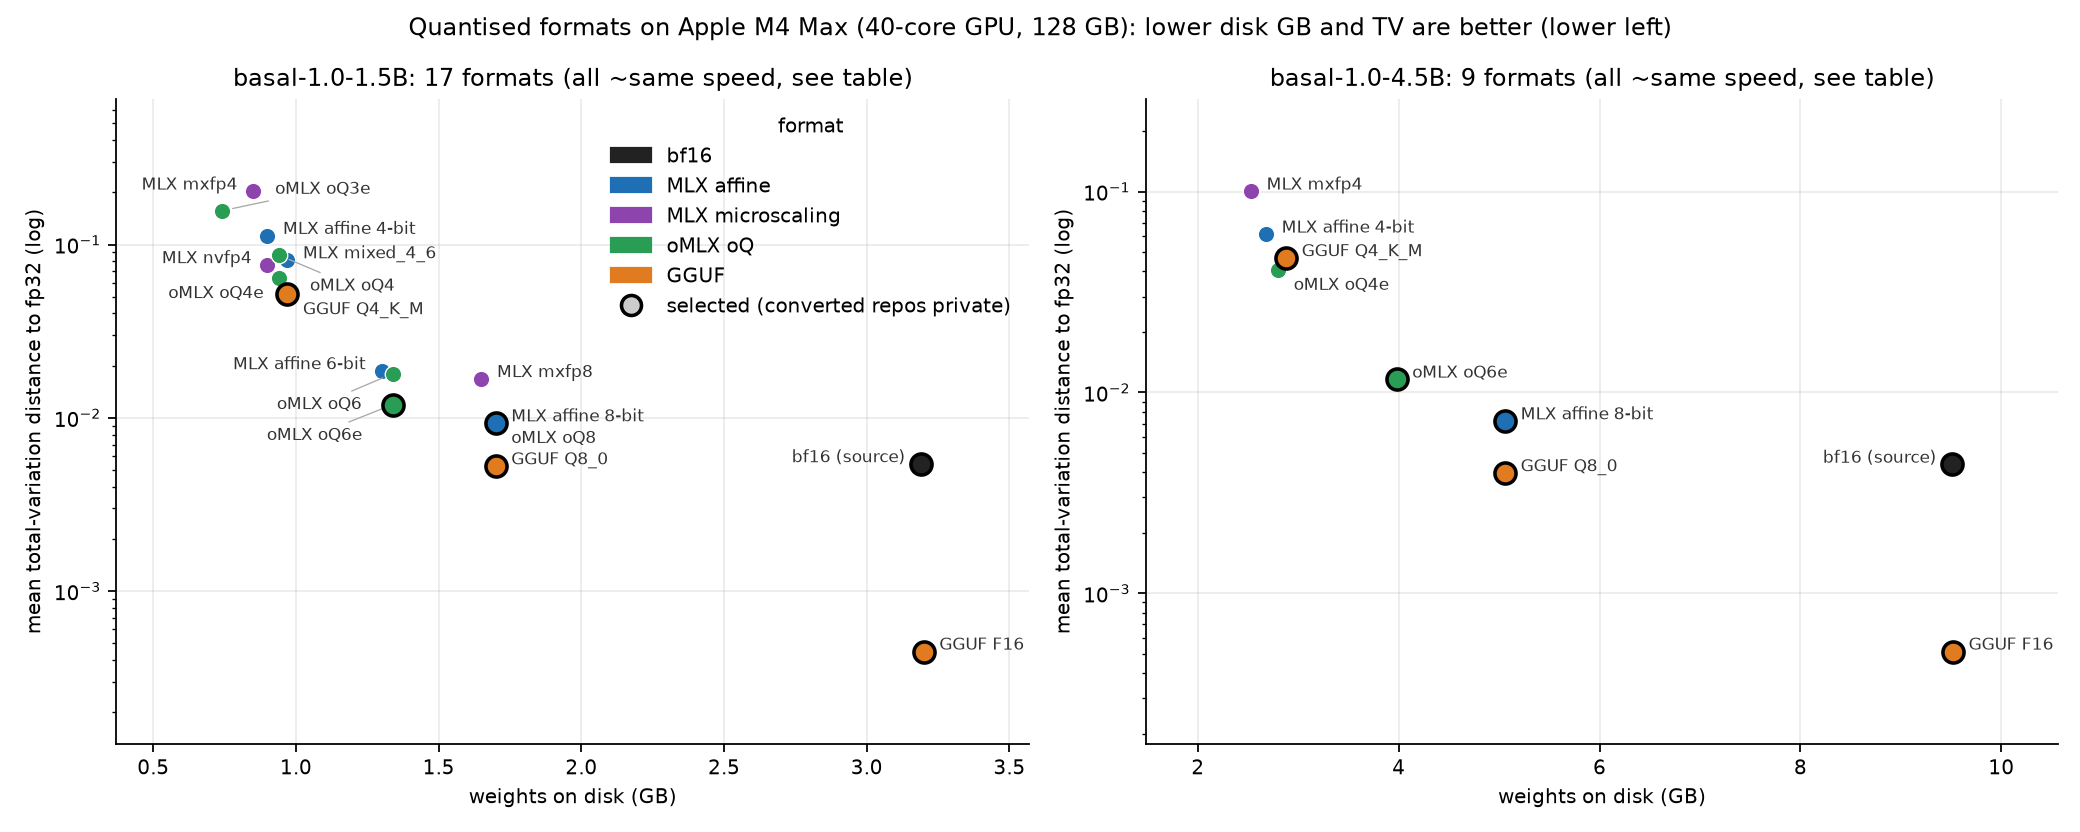
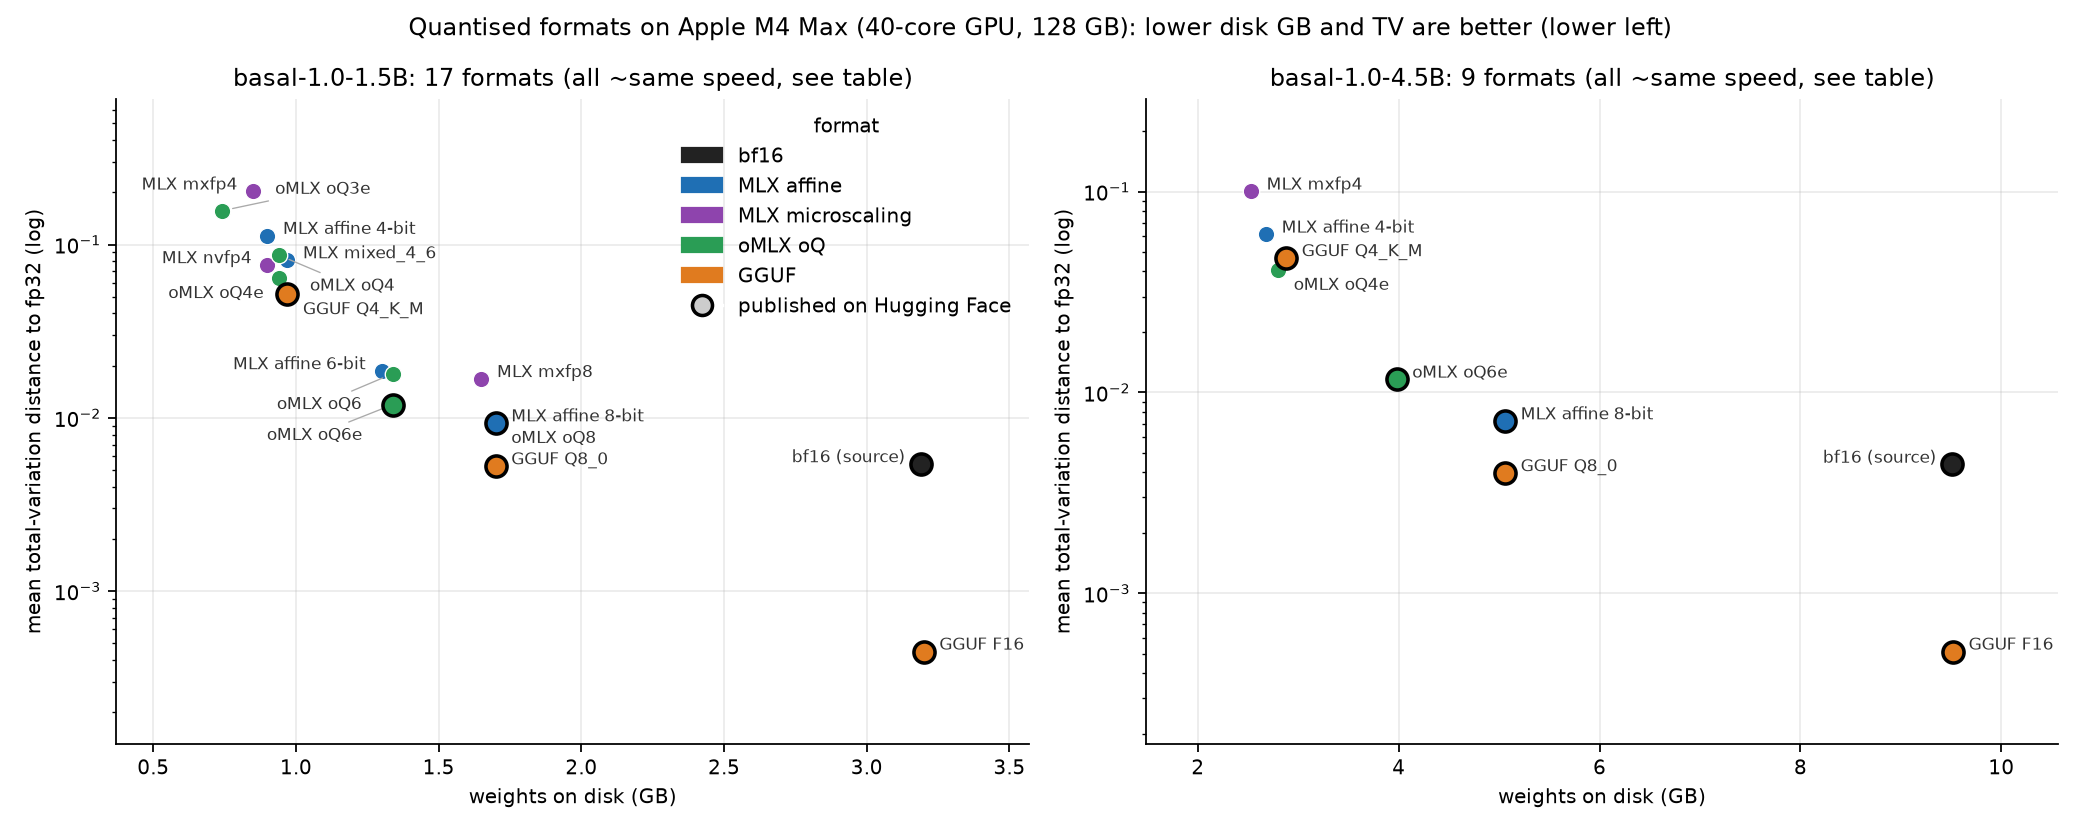
docs: mark released HF conversions public

Changed region(s): [[0.2812, 0.1562, 0.5, 0.375], [0.375, 0.125, 0.4062, 0.1562]]

diff --git a/docs/figures/make_figures.py b/docs/figures/make_figures.py
@@ -233,15 +233,15 @@ def gold_prob_heatmap():
     fig.savefig(HERE / "apple_gold_prob_heatmap.png")
 
 
-# Selected checkpoints (original bf16 is public; converted repos are private until release); keys of D["formats"]
-SELECTED = {"basal-mlx", "basal-gguf:F16", "basal-gguf:Q8_0", "basal-gguf:Q4_K_M", "mlx-q8", "mlx-oQ6e"}
+# Checkpoints published on Hugging Face (README, "Ready-made public Apple Silicon checkpoints"); keys of D["formats"]
+PUBLISHED = {"basal-mlx", "basal-gguf:F16", "basal-gguf:Q8_0", "basal-gguf:Q4_K_M", "mlx-q8", "mlx-oQ6e"}
 
 
 def memory_vs_fidelity():
-    """Selected checkpoints of both models: memory vs faithfulness, latency in the labels."""
+    """Published checkpoints of both models: memory vs faithfulness, latency in the labels."""
     fig, axes = plt.subplots(1, 2, figsize=(13, 4.8))
     for ax, model in zip(axes, ("1.5B", "4.5B")):
-        rows = [r for r in D["formats"][model] if r["key"] in SELECTED]
+        rows = [r for r in D["formats"][model] if r["key"] in PUBLISHED]
         for r in rows:
             ax.scatter(r["gb"], max(r["tv_mean"], TV_FLOOR), s=70, color=FORMAT_COLORS[r["family"]], zorder=3,
                        edgecolor="white", linewidth=0.6)
@@ -253,12 +253,12 @@ def memory_vs_fidelity():
         ax.grid(alpha=0.25)
         if model == "1.5B":
             format_legend(ax, families={r["family"] for r in rows}, loc="upper right", fontsize=8)
-    fig.suptitle("Apple Silicon checkpoints (conversions private until release): lower GB and TV are better; "
+    fig.suptitle("Published Apple Silicon checkpoints: lower GB and TV are better (lower left); "
                  "labels: ms per decision, lower is better", fontsize=11)
     fig.tight_layout()
     fig.canvas.draw()
     for ax, model in zip(axes, ("1.5B", "4.5B")):
-        rows = [r for r in D["formats"][model] if r["key"] in SELECTED]
+        rows = [r for r in D["formats"][model] if r["key"] in PUBLISHED]
         place_labels(ax, [(r["gb"], max(r["tv_mean"], TV_FLOOR),
                            f"{r['label']} · {r['ms']:.0f} ms")
                           for r in sorted(rows, key=lambda r: r["gb"])])
@@ -269,11 +269,11 @@ FORMAT_COLORS = {"bf16": "#222222", "MLX affine": "#1f6fb4", "MLX microscaling":
                  "GGUF": "#e07b1f"}
 
 
-def format_legend(ax, selected=False, families=None, **kw):
+def format_legend(ax, published=False, families=None, **kw):
     handles = [Patch(color=c, label=f) for f, c in FORMAT_COLORS.items() if families is None or f in families]
-    if selected:
+    if published:
         handles.append(plt.Line2D([], [], marker="o", color="w", markerfacecolor="#ccc", markeredgecolor="black",
-                                  markeredgewidth=1.6, markersize=9, label="selected (converted repos private)"))
+                                  markeredgewidth=1.6, markersize=9, label="published on Hugging Face"))
     ax.legend(handles=handles, title="format", frameon=False, **kw)
 
 
@@ -282,10 +282,10 @@ def formats_size_vs_fidelity():
     for ax, model in zip(axes, ("1.5B", "4.5B")):
         rows = D["formats"][model]
         for r in rows:
-            selected = r["key"] in SELECTED
-            ax.scatter(r["gb"], max(r["tv_mean"], TV_FLOOR), s=90 if selected else 55, color=FORMAT_COLORS[r["family"]],
-                       zorder=4 if selected else 3, edgecolor="black" if selected else "white",
-                       linewidth=1.6 if selected else 0.6)
+            published = r["key"] in PUBLISHED
+            ax.scatter(r["gb"], max(r["tv_mean"], TV_FLOOR), s=90 if published else 55, color=FORMAT_COLORS[r["family"]],
+                       zorder=4 if published else 3, edgecolor="black" if published else "white",
+                       linewidth=1.6 if published else 0.6)
         ax.set_yscale("log")
         ax.margins(x=0.15, y=0.2)
         ax.set_xlabel("weights on disk (GB)")
@@ -293,7 +293,7 @@ def formats_size_vs_fidelity():
         ax.set_title(f"basal-1.0-{model}: {len(rows)} formats (all ~same speed, see table)")
         ax.grid(alpha=0.25, zorder=0)
         if model == "1.5B":
-            format_legend(ax, selected=True, loc="upper right")
+            format_legend(ax, published=True, loc="upper right")
     fig.suptitle(f"Quantised formats on {D['machine']}: lower disk GB and TV are better (lower left)", fontsize=11)
     fig.tight_layout()
     fig.canvas.draw()

diff --git a/docs/HARDWARE.md b/docs/HARDWARE.md
@@ -17,7 +17,7 @@ on a private 500-item sample of the Polish/English test split.
 | Desktop with unified memory (DGX Spark GB10) | `fp8` | memory-bandwidth-bound; FP8 halves latency |
 | Batched high-throughput serving on Blackwell | `vllm` + `-NVFP4` checkpoint | 3.2× throughput on the DGX Spark (the only machine where it was measured), but −3 accuracy points |
 | A100 and other GPUs without FP8 (not measured) | `fast` | the bf16 path runs on any sm80+ GPU |
-| Apple Silicon (M-series Mac) | `mlx` with the original checkpoint; `gguf` with the F16 GGUF for the closest match to fp32; 8-bit / oQ6e checkpoints on 16 GB Macs | compute-bound: every format runs at the same speed, quantised weights only save memory; converted repos in the [README](../README.md#apple-silicon-mlx--mps) remain private until release |
+| Apple Silicon (M-series Mac) | `mlx` with the original checkpoint; `gguf` with the F16 GGUF for the closest match to fp32; 8-bit / oQ6e checkpoints on 16 GB Macs | compute-bound: every format runs at the same speed, quantised weights only save memory; public checkpoints in the [README](../README.md#apple-silicon-mlx--mps) |
 
 Add `--mode fast-exit` to let requests choose `"early_exit": "0.99"` (about 1.15× faster, agreement ≥ 0.99).
 
@@ -207,7 +207,7 @@ the same items are wrong in every faithful engine.
 
 #### Quantised formats: MLX, oMLX oQ, GGUF
 
-Staged conversions (private until the publisher releases them): [MLX 8-bit](https://huggingface.co/pawelkiszczak/basal-1.0-4.5B-MLX-8bit) and
+Published conversions: [MLX 8-bit](https://huggingface.co/pawelkiszczak/basal-1.0-4.5B-MLX-8bit) and
 [oQ6e](https://huggingface.co/pawelkiszczak/basal-1.0-4.5B-oQ6e) of the 4.5B,
 [MLX 8-bit](https://huggingface.co/pawelkiszczak/basal-1.0-1.5B-MLX-8bit) and
 [oQ6e](https://huggingface.co/pawelkiszczak/basal-1.0-1.5B-oQ6e) of the 1.5B (with `CALIBRATION.json`, for
@@ -247,7 +247,7 @@ cool-down; *TV*: mean / max total-variation distance to fp32, *changed*: decisio
 | oMLX oQ3e | 0.74 | 69 | 0.1565 / 0.453 | 7 | – | – | – | – |
 | MLX mxfp4 | 0.85 | 71 | 0.2029 / 0.796 | 9 | 2.53 | 204 | 0.1003 / 0.529 | 4 |
 
-![Size vs faithfulness of the quantised formats (ringed: selected checkpoints, converted repos private)](figures/apple_formats_size_vs_fidelity.png)
+![Size vs faithfulness of the quantised formats (ringed: published checkpoints)](figures/apple_formats_size_vs_fidelity.png)
 
 - **No format is faster**: the Apple GPU is compute-bound on these prompts, so every format of a model runs within
   15% of bf16. Quantisation only saves memory.

diff --git a/README.md b/README.md
@@ -151,9 +151,8 @@ uv pip install -e ".[mlx,gguf]"
 basal-serve --model Remek/basal-1.0-4.5B --port 8000        # default on Apple Silicon: --mode mlx
 ```
 
-Ready-made Apple Silicon checkpoints (the converted repos linked below are **private until their publisher releases
-them**; the original bf16 repos are public). Measured on an M4 Max; all run at about the same speed, but differ in
-memory and fidelity ([details](docs/HARDWARE.md#quantised-formats-mlx-omlx-oq-gguf)):
+Ready-made public Apple Silicon checkpoints (measured on an M4 Max; all run at about the same speed, but differ in
+memory and fidelity; see [details](docs/HARDWARE.md#quantised-formats-mlx-omlx-oq-gguf)):
 
 | use | 4.5B | 1.5B | start with |
 |---|---|---|---|
@@ -164,10 +163,10 @@ memory and fidelity ([details](docs/HARDWARE.md#quantised-formats-mlx-omlx-oq-gg
 
 The MLX repositories include `CALIBRATION.json`, so `--model pawelkiszczak/basal-1.0-4.5B-MLX-8bit` is all the server
 needs; for GGUF, `--model` stays the original repository (tokenizer and calibration) and `--gguf` points to the
-downloaded file ([docs/GGUF.md](docs/GGUF.md)). GGUF Q4_K_M is staged in a private repo but not recommended: it
-changes some decisions. The other measured 4-bit formats are not staged.
+downloaded file ([docs/GGUF.md](docs/GGUF.md)). GGUF Q4_K_M is available but not recommended: it changes some
+decisions. The other measured 4-bit formats are not published.
 
-![Selected Apple Silicon checkpoints: memory vs faithfulness](docs/figures/apple_memory_vs_fidelity.png)
+![Published Apple Silicon checkpoints: memory vs faithfulness](docs/figures/apple_memory_vs_fidelity.png)
 
 - `mlx` (default when MLX and mlx-lm are installed) and `mps` (PyTorch) both use the shared prefix and batching of
   `fast`. Neither compiles; startup still includes model download and loading. Agreement with the fp32 reference on the

diff --git a/docs/GGUF.md b/docs/GGUF.md
@@ -9,7 +9,7 @@ order's option block to its own sequence, and all questions of a batch go throug
 
 ## Download
 
-Converted files (F16, Q8_0, Q4_K_M, measured below; these repos are **private until the publisher releases them**):
+Public converted files (F16, Q8_0, Q4_K_M, measured below):
 [pawelkiszczak/basal-1.0-4.5B-GGUF](https://huggingface.co/pawelkiszczak/basal-1.0-4.5B-GGUF) and
 [pawelkiszczak/basal-1.0-1.5B-GGUF](https://huggingface.co/pawelkiszczak/basal-1.0-1.5B-GGUF).
 
@@ -81,7 +81,7 @@ call; *TV*: total-variation distance between the averaged two-order probabilitie
 - **Q4_K_M** changes about 5% of the decisions and moves single probabilities by up to 0.3–0.45: not recommended.
 - Weight quantisation does not make prefill faster here: Apple GPUs are compute-bound on these prompts.
 
-![Selected Apple Silicon checkpoints: memory vs faithfulness](figures/apple_memory_vs_fidelity.png)
+![Published Apple Silicon checkpoints: memory vs faithfulness](figures/apple_memory_vs_fidelity.png)
 
 Per-item deviations of every variant and of other engines:
 [HARDWARE.md, inference engines on Apple Silicon](HARDWARE.md#inference-engines-on-apple-silicon).
